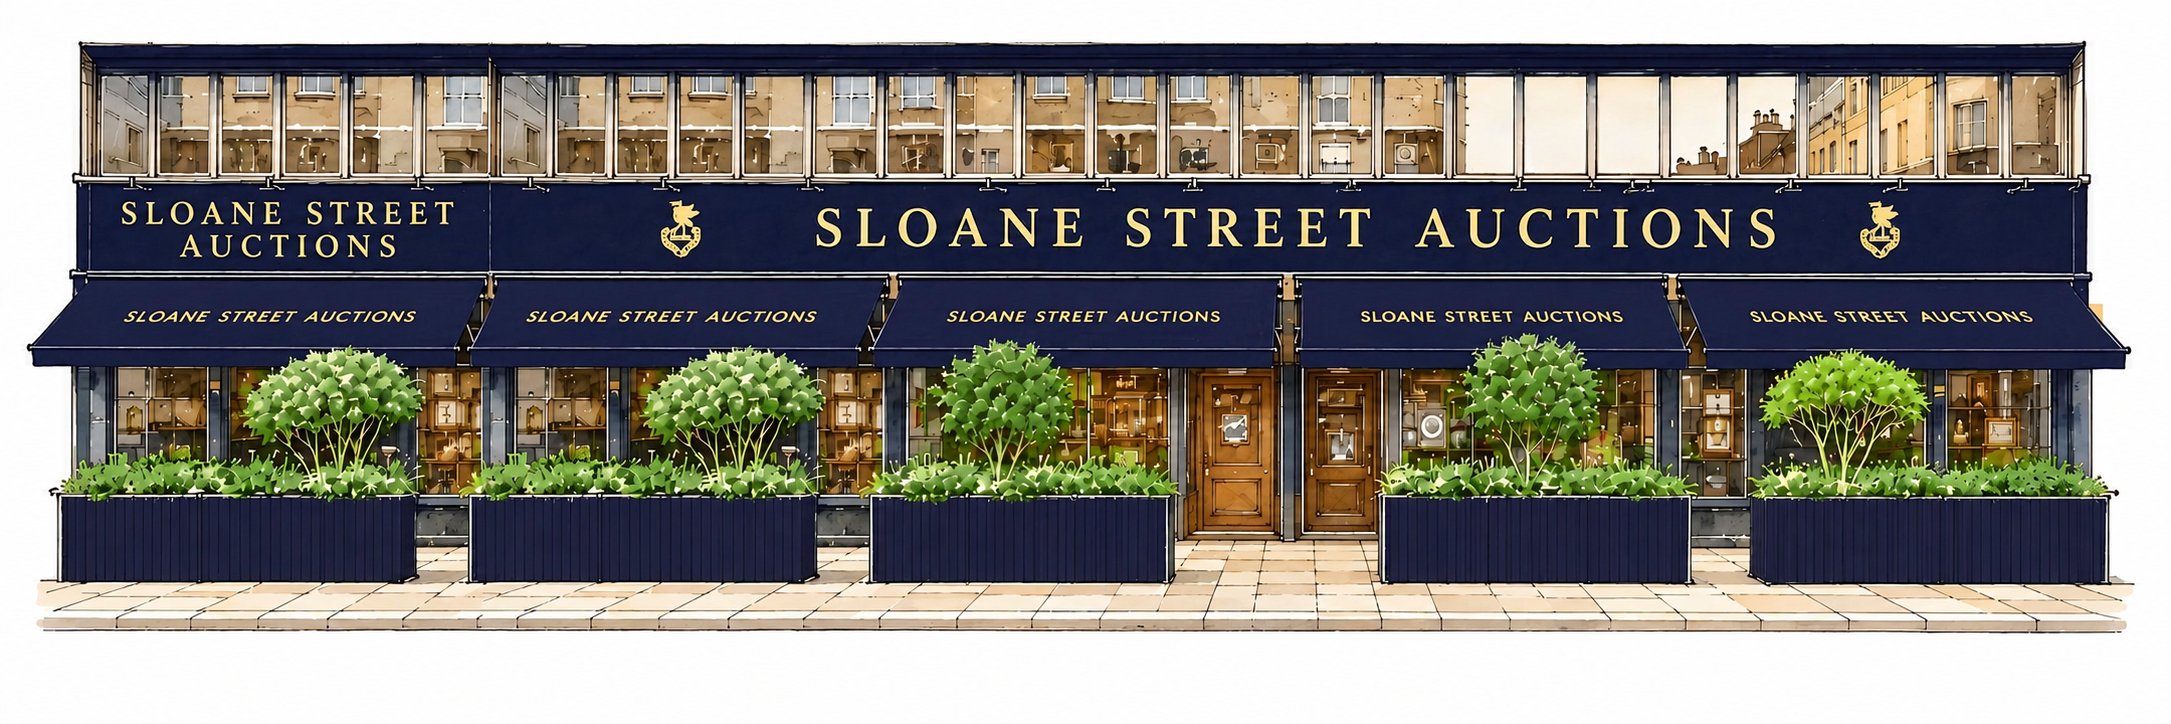
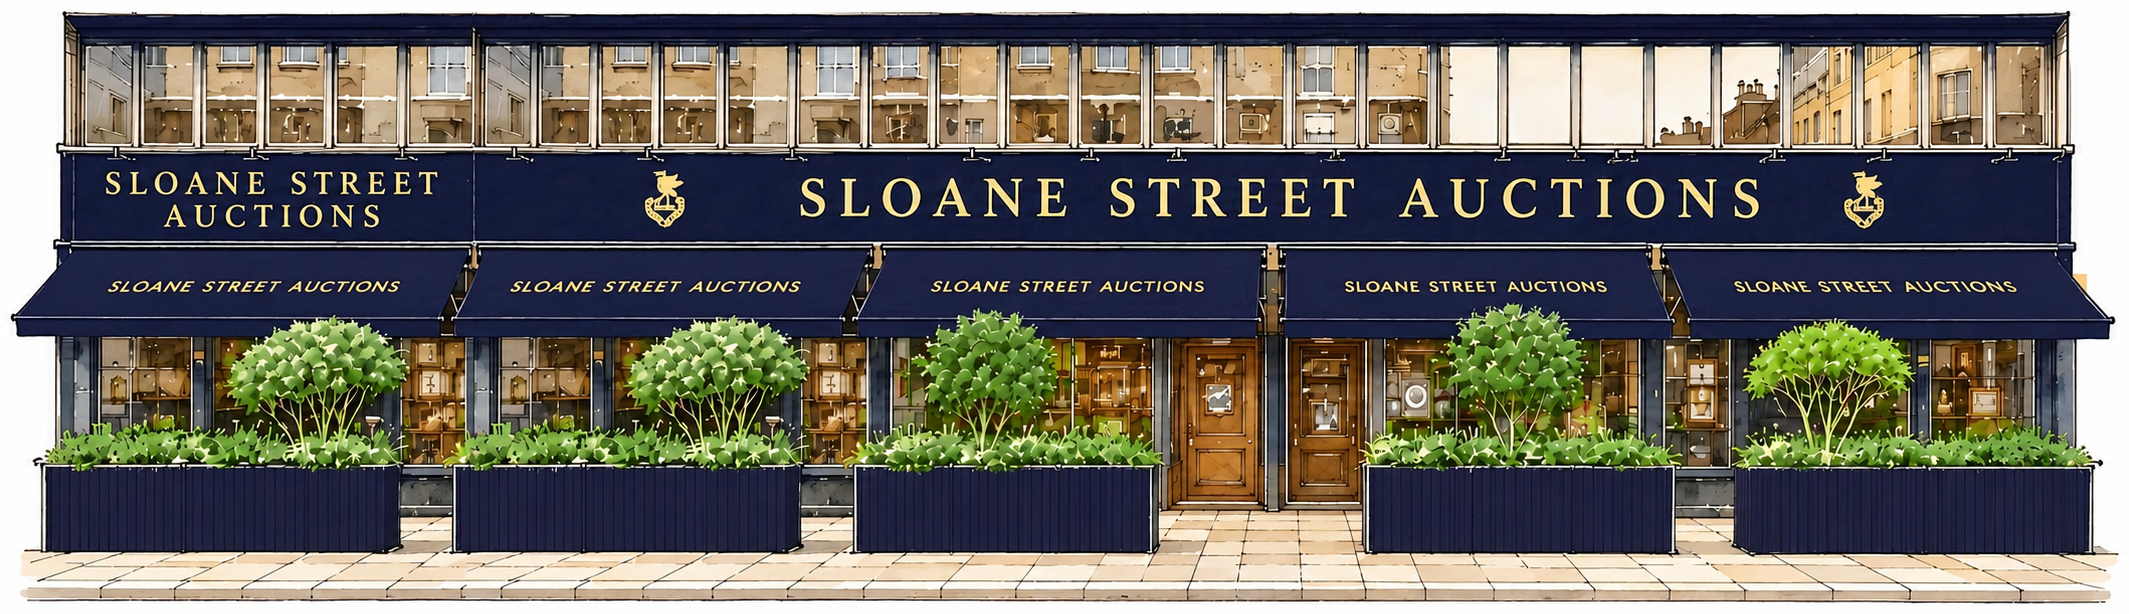
Homepage illustration larger: white border trimmed and more height allowed
Claude-Session: https://claude.ai/code/session_01BQAcxkyukxm1huG2AKUy4t

diff --git a/src/app/(home)/page.tsx b/src/app/(home)/page.tsx
@@ -278,7 +278,7 @@ function IllustrationHero({ hero, image, sellOn }: { hero: typeof home.hero; ima
           height={size.height}
           preload
           sizes="(min-width: 1600px) 1500px, 100vw"
-          className="mx-auto h-auto w-full mix-blend-multiply lg:w-auto lg:max-w-full lg:max-h-[max(24rem,calc(100svh-24rem))]"
+          className="mx-auto h-auto w-full mix-blend-multiply lg:w-auto lg:max-w-full lg:max-h-[max(26rem,calc(100svh-17rem))]"
         />
       </div>
       <div className="shell flex flex-col items-center pt-6 pb-12 text-center md:pt-8 md:pb-14">
